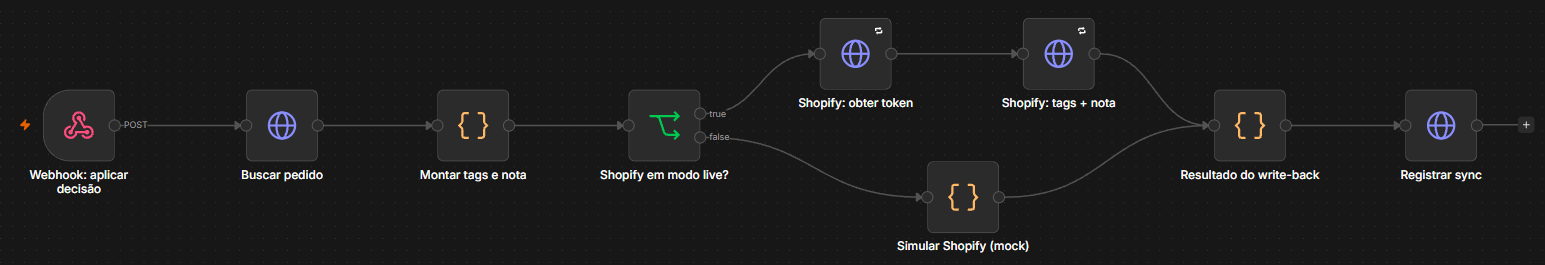
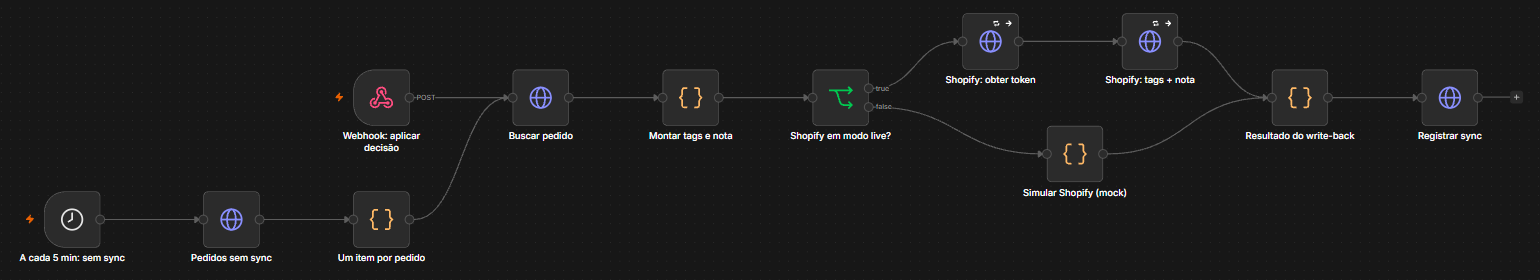
feat: reenvio automático do write-back no Shopify
Decisões tomadas com o pipeline fora do ar (ou com falha na Admin API)
ficavam salvas sem chegar ao Shopify. Agora:

- orders_pending_sync (migration nova, só service_role): pedidos decididos
  sem write-back bem-sucedido desde a decisão, com mais de 2 min, até 30
  dias e menos de 5 falhas registradas
- "Aplicar decisão" ganha uma varredura a cada 5 min que chama a função e
  reaproveita o mesmo caminho do webhook
- os nós da Shopify seguem adiante no erro: a falha vira ok=false no
  shopify_sync_log (conta para o limite); o log guarda só a mensagem do
  erro, nunca o objeto da requisição (que pode trazer o token)
- painel: a mensagem diz que o reenvio é automático, e a página do pedido
  mostra "Shopify update pending" até o sync dar certo
- docs: README (EN/PT), diagramas, TDD, web/README e print do workflow

Testes: 5 de integração novos (fila, limite de falhas, nova decisão zera a
contagem, pedido não decidido, só service_role) + os 7 de RLS. Validado no
n8n local (varredura sincronizou 2 pedidos; falha forçada com secret
inválido gravou ok=false sem token) e na nuvem (fila esvaziou em < 1 min).

diff --git a/tests/reenvio-sync.integration.test.ts b/tests/reenvio-sync.integration.test.ts
@@ -1,0 +1,105 @@
+// Teste de integração do reenvio do write-back (orders_pending_sync) contra o
+// Supabase LOCAL. Pré-requisitos: `supabase start`, `node scripts/seed-usuarios.ts`
+// e pedidos das duas marcas (`npm run simular -- all`).
+//
+// Uso: npm run test:integration
+
+import { test, before, after } from "node:test";
+import assert from "node:assert/strict";
+import { execSync } from "node:child_process";
+import { DEMO_PASSWORD } from "../scripts/demo-config.ts";
+
+interface SupabaseStatus { API_URL: string; PUBLISHABLE_KEY: string; SECRET_KEY: string }
+interface OrderRow { id: string; status: string }
+
+let url = "";
+let pub = "";
+let secret = "";
+const originais = new Map<string, string>(); // pedido → status antes do teste
+
+before(() => {
+  const s = JSON.parse(execSync("npx -y supabase@latest status -o json", { stdio: ["ignore", "pipe", "ignore"] }).toString()) as SupabaseStatus;
+  url = s.API_URL; pub = s.PUBLISHABLE_KEY; secret = s.SECRET_KEY;
+});
+
+const admin = (path: string, init: RequestInit = {}): Promise<Response> => fetch(`${url}/rest/v1/${path}`, {
+  ...init,
+  headers: { apikey: secret, Authorization: `Bearer ${secret}`, "Content-Type": "application/json", ...(init.headers as Record<string, string> | undefined) },
+});
+
+async function pendentes(): Promise<string[]> {
+  // p_older_than 0: o teste não espera os 2 minutos de folga da produção
+  const res = await admin("rpc/orders_pending_sync", { method: "POST", body: JSON.stringify({ p_older_than: "0 seconds", p_limit: 500 }) });
+  assert.equal(res.status, 200, await res.clone().text());
+  return ((await res.json()) as { order_id: string }[]).map((r) => r.order_id);
+}
+
+/** Decide o pedido agora (o trigger renova status_changed_at), guardando o status original. */
+async function decidirAgora(id: string, status: string): Promise<void> {
+  const res = await admin(`orders?id=eq.${id}`, { method: "PATCH", body: JSON.stringify({ status: "reviewing" }) });
+  assert.ok(res.ok);
+  await admin(`orders?id=eq.${id}`, { method: "PATCH", body: JSON.stringify({ status }) });
+}
+
+async function registrarSync(orderId: string, ok: boolean): Promise<void> {
+  const res = await admin("shopify_sync_log", { method: "POST", body: JSON.stringify({ order_id: orderId, mode: "mock", tags: ["teste"], ok }) });
+  assert.ok(res.ok, await res.text());
+}
+
+async function doisPedidos(): Promise<[string, string]> {
+  const rows = (await (await admin("orders?select=id,status&order=created_at&limit=2")).json()) as OrderRow[];
+  assert.equal(rows.length, 2, "rode npm run simular -- all antes");
+  for (const r of rows) originais.set(r.id, r.status);
+  return [rows[0]!.id, rows[1]!.id];
+}
+
+after(async () => {
+  for (const [id, status] of originais) await admin(`orders?id=eq.${id}`, { method: "PATCH", body: JSON.stringify({ status }) });
+});
+
+test("pedido decidido sem sync entra na fila; um sync bem-sucedido o tira", async () => {
+  const [a] = await doisPedidos();
+  await decidirAgora(a, "approved");
+  assert.ok((await pendentes()).includes(a));
+
+  await registrarSync(a, true);
+  assert.ok(!(await pendentes()).includes(a));
+});
+
+test("para de reenviar depois de 5 falhas registradas", async () => {
+  const [, b] = await doisPedidos();
+  await decidirAgora(b, "rejected");
+  for (let i = 0; i < 4; i++) await registrarSync(b, false);
+  assert.ok((await pendentes()).includes(b), "com 4 falhas ainda reenvia");
+
+  await registrarSync(b, false);
+  assert.ok(!(await pendentes()).includes(b), "com 5 falhas desiste");
+});
+
+test("uma nova decisão zera a contagem: só vale o que veio depois dela", async () => {
+  const [a] = await doisPedidos();
+  await decidirAgora(a, "approved");
+  assert.ok((await pendentes()).includes(a), "o sync ok anterior à decisão não conta");
+});
+
+test("pedido não decidido nunca entra na fila", async () => {
+  const [a] = await doisPedidos();
+  await decidirAgora(a, "needs_review");
+  assert.ok(!(await pendentes()).includes(a));
+});
+
+test("só a service_role executa a função", async () => {
+  const login = await fetch(`${url}/auth/v1/token?grant_type=password`, {
+    method: "POST", headers: { apikey: pub, "Content-Type": "application/json" },
+    body: JSON.stringify({ email: "ops@demo.test", password: DEMO_PASSWORD }),
+  });
+  const { access_token } = (await login.json()) as { access_token: string };
+  const res = await fetch(`${url}/rest/v1/rpc/orders_pending_sync`, {
+    method: "POST", headers: { apikey: pub, Authorization: `Bearer ${access_token}`, "Content-Type": "application/json" }, body: "{}",
+  });
+  assert.equal(res.status, 403, "usuário autenticado (mesmo admin da marca) não pode listar a fila");
+  const anon = await fetch(`${url}/rest/v1/rpc/orders_pending_sync`, {
+    method: "POST", headers: { apikey: pub, "Content-Type": "application/json" }, body: "{}",
+  });
+  assert.ok([401, 403].includes(anon.status), `anon recebeu ${anon.status}`);
+});

diff --git a/scripts/gerar-workflows.ts b/scripts/gerar-workflows.ts
@@ -292,6 +292,20 @@ const revisar = workflow(WF.revisar, "Revisar pedido", revisarNodes, connect([
 // ═══ 2. Aplicar decisão no Shopify ═══════════════════════════════════
 const aplicarNodes = [
   webhook("Webhook: aplicar decisão", pos(0), "apply-decision", "5b1f2a4e-8c1d-4e0b-9a51-3f7a2d6c1e02"),
+  // Reenvio: decisões que não chegaram ao Shopify (n8n fora do ar na hora, Admin API falhou)
+  {
+    id: "a-cada-5-min-sync", name: "A cada 5 min: sem sync", type: "n8n-nodes-base.scheduleTrigger", typeVersion: 1.2,
+    position: pos(-2, 1),
+    parameters: { rule: { interval: [{ field: "minutes", minutesInterval: 5 }] } },
+  },
+  httpJson("Pedidos sem sync", pos(-1, 1), {
+    url: `${SUPA}/rest/v1/rpc/orders_pending_sync`,
+    body: "={{ JSON.stringify({}) }}",
+    auth: supabaseAuth, creds: supabaseCreds,
+  }),
+  code("Um item por pedido", pos(0, 1), `return $input.all()
+  .filter((i) => i.json.order_id)
+  .map((i) => ({ json: { body: { order_id: i.json.order_id } } }));`),
   httpJson("Buscar pedido", pos(1), {
     method: "GET",
     url: `=${"{{ $env.SUPABASE_URL }}"}/rest/v1/orders?id=eq.{{ $json.body.order_id }}&select=id,order_number,shopify_order_id,status,brands(shop_domain),order_items(title,reviews(verdict,created_at,review_decisions(action,final_text,created_at)))`,
@@ -350,6 +364,7 @@ return { json: {
       options: {},
     },
     retryOnFail: true, maxTries: 3, waitBetweenTries: 3000,
+    onError: "continueRegularOutput" as const,
   },
   httpJson("Shopify: tags + nota", pos(5, -0.5), {
     url: `=https://{{ $("Montar tags e nota").item.json.shop_domain }}/admin/api/2026-07/graphql.json`,
@@ -358,12 +373,13 @@ return { json: {
   query: "mutation($id: ID!, $tags: [String!]!, $input: OrderInput!) { tagsAdd(id: $id, tags: $tags) { userErrors { message } } orderUpdate(input: $input) { userErrors { message } } }",
   variables: (({ order_gid, tags, note }) => ({ id: order_gid, tags, input: { id: order_gid, note } }))($("Montar tags e nota").item.json)
 }) }}`,
-    extra: { retryOnFail: true, maxTries: 3, waitBetweenTries: 3000 },
+    extra: { retryOnFail: true, maxTries: 3, waitBetweenTries: 3000, onError: "continueRegularOutput" },
   }),
   code("Simular Shopify (mock)", pos(4.5, 0.5), `return { json: { data: { tagsAdd: { userErrors: [] }, orderUpdate: { userErrors: [] } }, mock: true } };`, "runOnceForEachItem"),
   code("Resultado do write-back", pos(6), `const ctx = $("Montar tags e nota").item.json;
-const errors = [...($json.data?.tagsAdd?.userErrors ?? []), ...($json.data?.orderUpdate?.userErrors ?? []), ...($json.errors ?? [])];
-return { json: { order_id: ctx.order_id, mode: ctx.mode, tags: ctx.tags, note: ctx.note, ok: errors.length === 0, response: $json } };`, "runOnceForEachItem"),
+const nodeError = $json.error ? { message: String($json.error.message ?? $json.error) } : null;
+const errors = [...($json.data?.tagsAdd?.userErrors ?? []), ...($json.data?.orderUpdate?.userErrors ?? []), ...($json.errors ?? []), ...(nodeError ? [nodeError] : [])];
+return { json: { order_id: ctx.order_id, mode: ctx.mode, tags: ctx.tags, note: ctx.note, ok: errors.length === 0, response: nodeError ? { error: nodeError } : $json } };`, "runOnceForEachItem"),
   httpJson("Registrar sync", pos(7), {
     url: `${SUPA}/rest/v1/shopify_sync_log`,
     body: "={{ JSON.stringify($json) }}",
@@ -372,6 +388,9 @@ return { json: { order_id: ctx.order_id, mode: ctx.mode, tags: ctx.tags, note: c
 ];
 const aplicar = workflow(WF.aplicar, "Aplicar decisão no Shopify", aplicarNodes, connect([
   ["Webhook: aplicar decisão", "Buscar pedido"],
+  ["A cada 5 min: sem sync", "Pedidos sem sync"],
+  ["Pedidos sem sync", "Um item por pedido"],
+  ["Um item por pedido", "Buscar pedido"],
   ["Buscar pedido", "Montar tags e nota"],
   ["Montar tags e nota", "Shopify em modo live?"],
   ["Shopify em modo live?", "Shopify: obter token", 0],

diff --git a/web/src/app/orders/[id]/page.tsx b/web/src/app/orders/[id]/page.tsx
@@ -13,7 +13,7 @@ export default async function OrderPage(props: PageProps<"/orders/[id]">) {
 
   const { data: order } = await supabase
     .from("orders")
-    .select(`id, order_number, customer_first_name, currency, total_price, status, created_at, brand_id,
+    .select(`id, order_number, customer_first_name, currency, total_price, status, status_changed_at, created_at, brand_id,
       brands(name),
       order_items(id, title, sku, quantity, personalisation, checks,
         reviews(id, verdict, issues, suggested_text, customer_message, confidence, model, prompt_version, created_at,
@@ -28,6 +28,9 @@ export default async function OrderPage(props: PageProps<"/orders/[id]">) {
   const canDecide = order.status === "needs_review" && (membership?.role === "reviewer" || membership?.role === "admin");
   const brand = Array.isArray(order.brands) ? order.brands[0] : order.brands;
   const sync = [...(order.shopify_sync_log ?? [])].sort((a, b) => b.created_at.localeCompare(a.created_at))[0];
+  // Decidido, mas sem write-back bem-sucedido depois da decisão: a varredura do n8n reenvia
+  const decided = ["auto_approved", "approved", "rejected"].includes(order.status);
+  const syncPending = decided && !(sync?.ok && sync.created_at >= order.status_changed_at);
 
   return (
     <>
@@ -50,6 +53,11 @@ export default async function OrderPage(props: PageProps<"/orders/[id]">) {
         {sync && (
           <p className="text-xs text-muted">
             Shopify {sync.mode === "mock" ? "(mock)" : ""}: tags {sync.tags.join(", ")} {sync.ok ? "applied" : "failed"}.
+          </p>
+        )}
+        {syncPending && (
+          <p className="text-xs text-muted">
+            Shopify update pending: retried automatically every 5 minutes while the pipeline is online.
           </p>
         )}
 

diff --git a/web/src/app/orders/[id]/actions.ts b/web/src/app/orders/[id]/actions.ts
@@ -39,7 +39,7 @@ export async function decide(formData: FormData) {
     if (wb.status === "sent") back("Decision saved and sent to Shopify.");
     if (wb.status === "disabled") back("Decision saved. Shopify write-back is disabled in this online demo (it runs in the full local setup).");
     // Na demo online o n8n roda na máquina do autor, atrás de um túnel: fora do ar, a decisão fica salva
-    back(`Decision saved, but Shopify was not updated: the pipeline (n8n) did not respond (${wb.status === "failed" ? wb.error : "unknown"}). In the online demo it runs on the author's machine and may be offline.`);
+    back(`Decision saved, but Shopify was not updated yet: the pipeline (n8n) did not respond (${wb.status === "failed" ? wb.error : "unknown"}). It is retried automatically every 5 minutes while the pipeline is online; in the online demo it runs on the author's machine.`);
   }
   back("Decision saved.");
 }

diff --git a/README.pt-BR.md b/README.pt-BR.md
@@ -14,7 +14,7 @@ Um varejista D2C multimarca vende produtos personalizados feitos sob encomenda (
 
 A conta demo é revisora nas três marcas. A demo online roda o painel na Vercel e no Supabase (Londres) com pedidos que a IA revisou de verdade: 2 aprovados automaticamente e 5 aguardando uma pessoa, incluindo a tentativa de injeção de prompt. Os dados da demo são resetados de tempos em tempos.
 
-A terceira marca, **Order Ops Demo Store**, é uma [loja de desenvolvimento real do Shopify](#loja-de-desenvolvimento-real-do-shopify): os pedidos chegam pelo webhook `orders/create` de verdade, e a decisão tomada na demo grava tags e nota no pedido pela Admin API. O pipeline de IA (n8n, gateway de LLM e Codex CLI) roda na máquina do autor, atrás de um túnel, então o ciclo com a loja real funciona enquanto ela está ligada; fora disso, a decisão é salva e o painel avisa que o Shopify não foi atualizado.
+A terceira marca, **Order Ops Demo Store**, é uma [loja de desenvolvimento real do Shopify](#loja-de-desenvolvimento-real-do-shopify): os pedidos chegam pelo webhook `orders/create` de verdade, e a decisão tomada na demo grava tags e nota no pedido pela Admin API. O pipeline de IA (n8n, gateway de LLM e Codex CLI) roda na máquina do autor, atrás de um túnel, então o ciclo com a loja real funciona enquanto ela está ligada; fora disso, a decisão é salva e chega ao Shopify automaticamente quando ela volta.
 
 | Fila de revisão | Correção sugerida pela IA |
 |---|---|
@@ -51,7 +51,7 @@ flowchart TB
     subgraph N8N["n8n (Docker)"]
         direction LR
         WF1["Revisar pedido<br/>webhook + varredura a cada 5 min"]
-        WF2["Aplicar decisão<br/>token + tags + nota"]
+        WF2["Aplicar decisão<br/>token + tags + nota<br/>+ reenvio a cada 5 min"]
         WF3["Tratar erros"]
     end
 
@@ -98,9 +98,9 @@ Os dois workflows são gerados a partir do código (`npm run workflows`) e impor
 
 ![Workflow n8n "Revisar pedido": webhook e agendamento de 5 minutos levando a claim, revisão pelo LLM, roteamento, gravação, write-back no Shopify e registro de falhas](docs/screenshots/n8n-review-order.png)
 
-**Aplicar decisão no Shopify:** busca o pedido decidido e monta as tags e a nota (incluindo o texto corrigido pelo revisor, se houver). Em modo live, pede um token de acesso de curta duração (client credentials) e chama a Admin API do Shopify; em desenvolvimento, chama uma simulação. Nos dois casos, registra o resultado.
+**Aplicar decisão no Shopify:** busca o pedido decidido e monta as tags e a nota (incluindo o texto corrigido pelo revisor, se houver). Em modo live, pede um token de acesso de curta duração (client credentials) e chama a Admin API do Shopify; em desenvolvimento, chama uma simulação. Nos dois casos, registra o resultado, inclusive as falhas. Uma segunda entrada, a varredura a cada 5 minutos, reaplica decisões sem sync bem-sucedido desde que foram tomadas (pipeline fora do ar ou falha no Shopify), até 5 tentativas com falha.
 
-![Workflow n8n "Aplicar decisão no Shopify": webhook, busca do pedido, montagem de tags e nota, ramo live (token de acesso, depois tags e nota) ou simulado, registro do sync](docs/screenshots/n8n-apply-decision.png)
+![Workflow n8n "Aplicar decisão no Shopify": webhook e varredura de reenvio a cada 5 minutos, busca do pedido, montagem de tags e nota, ramo live (token de acesso, depois tags e nota) ou simulado, registro do sync](docs/screenshots/n8n-apply-decision.png)
 
 Um terceiro workflow, **Tratar erros**, é configurado como workflow de erro dos dois e grava cada falha em `workflow_errors`.
 
@@ -155,7 +155,7 @@ sequenceDiagram
         UI->>DB: decide_review (papel e regras do produto conferidos de novo)
         DB-->>UI: pedido aprovado ou retido
         UI->>N: webhook apply-decision
-        Note over UI,N: n8n fora do ar: a decisão continua salva e o painel avisa que o Shopify não foi atualizado
+        Note over UI,N: n8n fora do ar: a decisão continua salva e a varredura de 5 min a aplica quando o n8n volta
         N->>S: token de acesso, depois tags + nota com o texto final
         N->>DB: shopify_sync_log
     end
@@ -163,6 +163,10 @@ sequenceDiagram
 
     opt n8n fora do ar quando o webhook chegou
         N->>DB: varredura a cada 5 min pega pedidos pendentes há mais de 2 min ou presos em revisão há mais de 10 min
+    end
+
+    opt decisão sem sync bem-sucedido (pipeline fora do ar, falha no Shopify)
+        N->>DB: varredura a cada 5 min: orders_pending_sync e apply-decision de novo (até 5 falhas)
     end
 ```
 
@@ -205,7 +209,7 @@ Detalhes em [docs/EVALS.md](docs/EVALS.md) (em inglês).
 
 - **HMAC do Shopify** verificado em tempo constante sobre o corpo bruto. Assinatura inválida recebe `401` e nada é gravado.
 - **Idempotência** pelo webhook id. Reentregas voltam como `duplicate`, e os upserts nunca reiniciam o status de um pedido.
-- **Persistir primeiro, notificar depois.** A varredura a cada 5 minutos recupera pedidos se o n8n estava fora e retoma execuções que morreram no meio da revisão.
+- **Persistir primeiro, notificar depois.** A varredura a cada 5 minutos recupera pedidos se o n8n estava fora e retoma execuções que morreram no meio da revisão. Uma segunda varredura reaplica decisões cujo write-back no Shopify nunca deu certo e desiste depois de 5 tentativas com falha.
 - **Retentativas** (3, com espera crescente) no LLM e na gravação no banco. Depois disso o item vai com segurança para uma pessoa, e o erro é gravado em `workflow_errors` por um workflow de erros dedicado.
 - **Segredos** só no `.env`, nas credenciais do n8n, nos secrets das Edge Functions e nas variáveis sensíveis da Vercel. Os webhooks do n8n e o gateway de LLM exigem segredo compartilhado, comparado em tempo constante.
 - **Acesso ao Shopify** por um token de 24 h do client credentials grant, pedido a cada write-back e nunca guardado. O app declara como dados protegidos só os dados do pedido e o nome do cliente.
@@ -358,7 +362,6 @@ web/                  painel Next.js
 
 ## Limitações conhecidas e próximos passos
 
-- **Reenvio do write-back:** uma decisão tomada com o pipeline fora do ar fica salva, mas a atualização no Shopify ainda não é reenviada automaticamente. Uma varredura de pedidos decididos sem sync bem-sucedido fecharia essa lacuna.
 - **Ordem dos campos:** a personalização é gravada como objeto `jsonb`, e o Postgres reordena as chaves. Ela deveria virar uma lista ordenada de `{name, value}`, formato que o resto do pipeline já usa.
 - **Limites por produto** vêm de uma tabela estática por SKU (`product_rules`). Uma versão futura deve lê-los dos metafields do Shopify.
 - **Pipeline completo online:** o painel, o banco e o endpoint de webhooks já estão no ar, e o pipeline de IA os atende a partir da máquina do autor por um túnel (veja [Loja de desenvolvimento real do Shopify](#loja-de-desenvolvimento-real-do-shopify)). Deixá-lo sempre ligado exige o n8n e o gateway de LLM num host pequeno, com um provedor hospedado no lugar do login pessoal do Codex.

diff --git a/README.md b/README.md
@@ -14,7 +14,7 @@ A multi-brand D2C retailer sells made-to-order personalised products (engraving,
 
 The demo account is a reviewer on all three brands. The online demo runs the dashboard on Vercel and Supabase (London) with orders that the AI really reviewed: 2 auto-approved and 5 waiting for a person, including the prompt-injection attempt. Demo data is reset from time to time.
 
-The third brand, **Order Ops Demo Store**, is a real [Shopify development store](#real-shopify-development-store): its orders arrive through the actual `orders/create` webhook, and a decision taken in the demo writes tags and a note back to the order through the Admin API. The AI pipeline (n8n, the LLM gateway and the Codex CLI) runs on the author's machine behind a tunnel, so the real-store round trip works while it is online; otherwise decisions are saved and the dashboard says Shopify was not updated.
+The third brand, **Order Ops Demo Store**, is a real [Shopify development store](#real-shopify-development-store): its orders arrive through the actual `orders/create` webhook, and a decision taken in the demo writes tags and a note back to the order through the Admin API. The AI pipeline (n8n, the LLM gateway and the Codex CLI) runs on the author's machine behind a tunnel, so the real-store round trip works while it is online; otherwise decisions are saved and reach Shopify automatically once it is back online.
 
 | Review queue | Correction suggested by the AI |
 |---|---|
@@ -49,7 +49,7 @@ flowchart TB
     subgraph N8N["n8n (Docker)"]
         direction LR
         WF1["Review order<br/>webhook + 5-min sweep"]
-        WF2["Apply decision<br/>token + tags + note"]
+        WF2["Apply decision<br/>token + tags + note<br/>+ 5-min retry"]
         WF3["Error handler"]
     end
 
@@ -96,9 +96,9 @@ Both workflows are generated from code (`npm run workflows`) and imported by CLI
 
 ![n8n workflow "Revisar pedido": webhook and 5-minute schedule into claim, LLM review, routing, save, Shopify write-back and failure logging](docs/screenshots/n8n-review-order.png)
 
-**Apply decision:** fetches the decided order, builds tags and a note (including any text a reviewer corrected), then, in live mode, requests a short-lived access token (client credentials) and calls the Shopify Admin API; in development it calls a mock. It logs the result either way.
+**Apply decision:** fetches the decided order, builds tags and a note (including any text a reviewer corrected), then, in live mode, requests a short-lived access token (client credentials) and calls the Shopify Admin API; in development it calls a mock. It logs the result either way, including failures. A second entry point, a 5-minute sweep, re-applies decisions that have no successful sync since they were taken (the pipeline was offline, or Shopify failed), up to 5 failed attempts.
 
-![n8n workflow "Aplicar decisão no Shopify": webhook, fetch order, build tags and note, live branch (access token, then tags and note) or mock, log the sync](docs/screenshots/n8n-apply-decision.png)
+![n8n workflow "Aplicar decisão no Shopify": webhook and 5-minute retry sweep, fetch order, build tags and note, live branch (access token, then tags and note) or mock, log the sync](docs/screenshots/n8n-apply-decision.png)
 
 A third workflow, **error handler**, is wired as the error workflow for both and writes every failure to `workflow_errors`.
 
@@ -153,7 +153,7 @@ sequenceDiagram
         UI->>DB: decide_review (role and product rules re-checked)
         DB-->>UI: order approved or on hold
         UI->>N: apply-decision webhook
-        Note over UI,N: n8n unreachable: the decision stays saved and the dashboard says Shopify was not updated
+        Note over UI,N: n8n unreachable: the decision stays saved and the 5-minute sweep applies it once n8n is back
         N->>S: access token, then tags + note with the final text
         N->>DB: shopify_sync_log
     end
@@ -161,6 +161,10 @@ sequenceDiagram
 
     opt n8n unreachable when the webhook arrived
         N->>DB: 5-minute sweep claims orders pending over 2 min or stuck reviewing over 10 min
+    end
+
+    opt decision without a successful sync (pipeline offline, Shopify failed)
+        N->>DB: 5-minute sweep: orders_pending_sync, then apply-decision again (up to 5 failures)
     end
 ```
 
@@ -203,7 +207,7 @@ Details in [docs/EVALS.md](docs/EVALS.md).
 
 - **Shopify HMAC** verified in constant time over the raw body. Invalid signatures get `401` and nothing is stored.
 - **Idempotency** by webhook id. Redeliveries return `duplicate`, and upserts never reset an order's status.
-- **Persist first, notify second.** The 5-minute sweep recovers orders if n8n was down, and reclaims runs that died mid-review.
+- **Persist first, notify second.** The 5-minute sweep recovers orders if n8n was down, and reclaims runs that died mid-review. A second sweep re-applies decisions whose Shopify write-back never succeeded, and stops after 5 failed attempts.
 - **Retries** (3, with backoff) on the LLM and on the database write. After that the item fails safe to a human, and the error is written to `workflow_errors` by a dedicated n8n error workflow.
 - **Secrets** live only in `.env`, n8n credentials, Edge Function secrets and Vercel's sensitive variables. n8n webhooks and the LLM gateway require shared secrets, compared in constant time.
 - **Shopify access** uses a 24 h token from the client credentials grant, requested on every write-back and never stored. The app declares only order data and the customer's name as protected customer data.
@@ -356,7 +360,6 @@ web/                  Next.js dashboard
 
 ## Known limitations and next steps
 
-- **Write-back retry:** a decision taken while the pipeline is offline is saved, but its Shopify update is not retried automatically yet. A sweep for decided orders without a successful sync would close that gap.
 - **Field order:** personalisation is stored as a `jsonb` object, and Postgres normalises key order. It should become an ordered list of `{name, value}`, which the rest of the pipeline already uses.
 - **Product limits** come from a static SKU table (`product_rules`). A later version should read them from Shopify metafields.
 - **Full pipeline online:** the dashboard, database and webhook endpoint are live, and the AI pipeline serves them from the author's machine through a tunnel (see [Real Shopify development store](#real-shopify-development-store)). Running it always-on needs n8n and the LLM gateway on a small host, plus a hosted provider instead of a personal Codex login.

diff --git a/docs/TDD.md b/docs/TDD.md
@@ -99,7 +99,7 @@ flowchart LR
     N8N -->|tags + note| SHOP
 ```
 
-When the machine is off, orders still arrive and are stored as `pending` (the sweep reviews them once n8n is back), and decisions are saved; only the Shopify write-back of those decisions is missed (see §7).
+When the machine is off, orders still arrive and are stored as `pending` (the sweep reviews them once n8n is back), and decisions are saved; their Shopify write-back is applied by the sync sweep once n8n is back (see §7).
 
 ## 5. Data model
 
@@ -208,7 +208,7 @@ The Edge Function and n8n use the `service_role` key server-side. The browser ne
 | LLM error or timeout (provider or gateway) | n8n retries 3 times with backoff; then the item is stored with verdict `unavailable`, the order goes to `needs_review` and a `workflow_errors` row is written |
 | Invalid model output | Treated as low confidence, routed to `needs_review` |
 | Shopify write-back fails | Retried 3 times (token request and GraphQL call); the result is logged in `shopify_sync_log` and failures in `workflow_errors` |
-| Pipeline offline when a decision is taken (online demo) | The decision is saved and the dashboard says Shopify was not updated. Not retried automatically yet: a sweep for decided orders without a successful sync is the next step |
+| Pipeline offline when a decision is taken, or the write-back failed | The decision is saved. A 5-minute sweep in `apply-decision` calls `orders_pending_sync` (decided orders with no successful sync since the decision, older than 2 min) and applies them again. Shopify failures are logged with `ok = false` (only the error message, never the request) and the sweep gives up after 5 of them |
 
 ## 8. Security
 
@@ -227,7 +227,7 @@ The Edge Function and n8n use the `service_role` key server-side. The browser ne
 | 1 | Schema + RLS, Edge Function, Shopify webhook simulator, TDD | Done |
 | 2 | n8n workflows (review, sweep, apply-decision, error handler), prompt v1 + evaluation set | Done (prompt v2 after the evaluation found a prompt-injection gap) |
 | 3 | Dashboard (auth, brand filter, review queue, decisions), deploy on Vercel | Done |
-| 4 | Real Shopify development store, metrics, hardening | Store done and verified end to end; metrics and write-back retry pending |
+| 4 | Real Shopify development store, metrics, hardening | Store and write-back retry done and verified end to end; metrics pending |
 
 ## 10. Decisions and open questions
 

diff --git a/web/README.md b/web/README.md
@@ -27,7 +27,7 @@ Review dashboard for Order Ops Copilot: the queue of personalised orders, the AI
 - **Only the publishable key.** Every query runs with the signed-in user's JWT, so Row Level Security decides what each person sees. The `service_role` key never reaches this app.
 - **`proxy.ts`** refreshes the Supabase session on each request and sends signed-out users to `/login`. It is an optimistic check: the real authorization is RLS in the database.
 - **Decisions go through `decide_review`** (a Postgres function), which checks the reviewer role again and refuses text that breaks the product rules.
-- **Shopify write-back** runs in n8n, not here. After a decision the Server Action calls the n8n `apply-decision` webhook with a shared secret (`src/lib/n8n.ts`) and reports one of three outcomes: sent, disabled (no n8n configured) or failed (for example, the pipeline is offline). The decision is saved in every case.
+- **Shopify write-back** runs in n8n, not here. After a decision the Server Action calls the n8n `apply-decision` webhook with a shared secret (`src/lib/n8n.ts`) and reports one of three outcomes: sent, disabled (no n8n configured) or failed (for example, the pipeline is offline). The decision is saved in every case, and a failed write-back is retried by n8n every 5 minutes; the order page shows "Shopify update pending" until it succeeds.
 
 ## Environment
 
